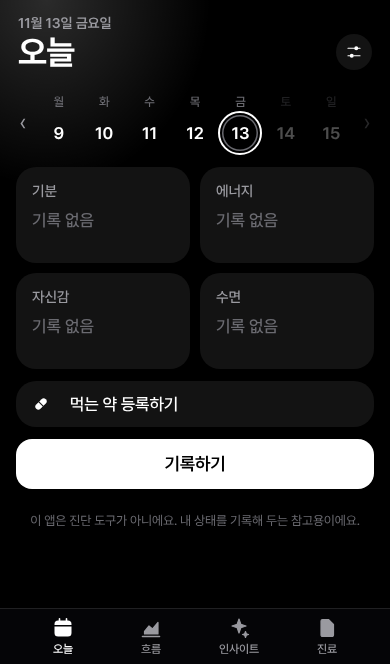
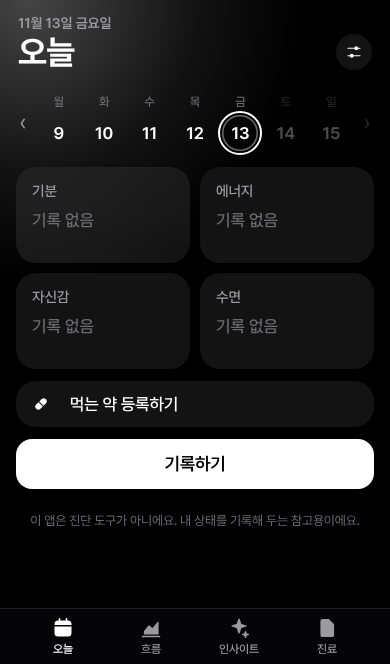
Tide: larger, brighter background light
The single top-left light felt weaker than it used to (it once sized itself to the whole page). It now reaches further and starts brighter, still one light.

Claude-Session: https://claude.ai/code/session_01Du4KAy7crrN67i73oW7iBF

Changed region(s): [[0.0, 0.0, 0.1231, 0.0904]]

diff --git a/mood/app.css b/mood/app.css
@@ -30,7 +30,7 @@
   --sel: rgba(255, 255, 255, .26);
   --bar: rgba(10, 10, 12, .55);
   --shadow: none;
-  --glow: radial-gradient(60% 40% at 12% 0%, rgba(255,255,255,.17), transparent 70%);
+  --glow: radial-gradient(95% 58% at 8% 0%, rgba(255,255,255,.27), rgba(255,255,255,.07) 45%, transparent 74%);
   --radius: 20px;
   --safe-t: env(safe-area-inset-top, 0px);
   --safe-b: env(safe-area-inset-bottom, 0px);
@@ -54,7 +54,7 @@
   --sel: #fff;
   --bar: rgba(248, 248, 250, .74);
   --shadow: 0 1px 1px rgba(0, 0, 0, .02), 0 6px 20px rgba(0, 0, 0, .035);
-  --glow: radial-gradient(60% 40% at 10% 0%, #fff, transparent 70%);
+  --glow: radial-gradient(95% 58% at 8% 0%, #fff, rgba(255,255,255,.55) 45%, transparent 74%);
 }
 
 * { box-sizing: border-box; -webkit-tap-highlight-color: transparent; }

diff --git a/mood/sw.js b/mood/sw.js
@@ -1,7 +1,7 @@
 // 오프라인에서도 열리도록 앱 파일을 저장해 둔다.
 // 인터넷이 될 때는 항상 최신 파일을 먼저 받아오고, 안 될 때만 저장본을 쓴다.
 // 앱 파일을 바꿔서 올릴 때마다 CACHE 숫자를 하나 올린다. js/ 에 파일을 더하면 JS 목록에도 더한다.
-const CACHE = 'tide-v58';
+const CACHE = 'tide-v59';
 const JS = ['main', 'config', 'i18n', 'constants', 'store', 'dates', 'theme', 'icons', 'dom', 'state', 'meds', 'analysis', 'files', 'render', 'swipe', 'lock',
   'views/today', 'views/trend', 'views/insight', 'views/record', 'views/settings', 'views/clinic', 'views/notes'];
 const FILES = ['./', 'index.html', 'app.css', 'manifest.webmanifest',

diff --git a/mood/js/config.js b/mood/js/config.js
@@ -2,4 +2,4 @@
 export const KEY = 'tide.v1', OLD_KEY = 'harugyeol.v1';
 
 // 설정 화면 맨 아래에 보이는 번호. 올릴 때마다 sw.js의 CACHE 숫자와 같이 하나 올린다.
-export const VERSION = 58;
+export const VERSION = 59;
